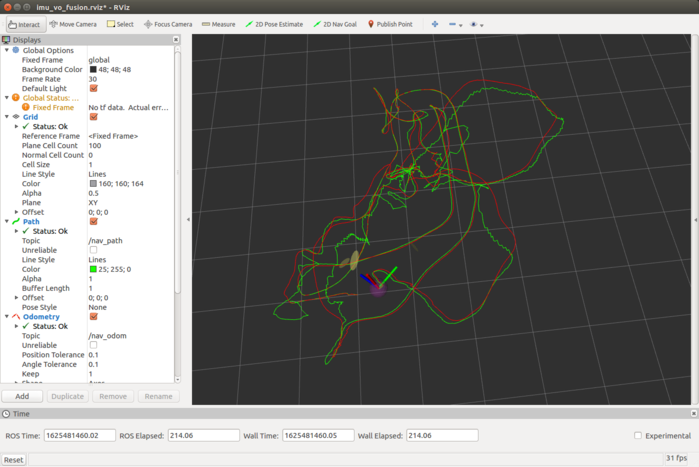
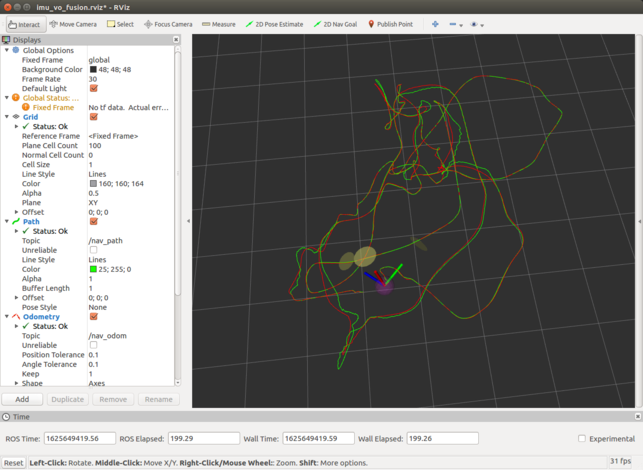
docs: update README.md

diff --git a/src/imu_vo_fusion_node.cpp b/src/imu_vo_fusion_node.cpp
@@ -36,7 +36,7 @@ class FusionNode {
 
         const double sigma_pv = 0.0005;
         const double sigma_rp  = 0.01 * kDegreeToRadian;
-        const double sigma_yaw = 500 * kDegreeToRadian;
+        const double sigma_yaw = 5 * kDegreeToRadian;
         kf_ptr_->set_cov(sigma_pv, sigma_pv, sigma_rp, sigma_yaw, acc_w, gyr_w);
 
         imu_sub_ = nh.subscribe(topic_imu, 10, &FusionNode::imu_callback, this);
@@ -119,7 +119,7 @@ void FusionNode::imu_callback(const sensor_msgs::ImuConstPtr &imu_msg) {
 Eigen::Matrix<double, 6, 15> FusionNode::measurementH(const Eigen::Quaterniond &vo_q, const Eigen::Isometry3d &T) {
     Eigen::Matrix<double, 6, 15> H;
     H.setZero();
-    
+
     const Eigen::Matrix3d &R00 = Tvw.linear();
     H.block<3, 3>(0, 0) = -R00;
     H.block<3, 3>(0, 6) =  R00 * T.linear() * skew_matrix(Tcb.inverse().translation());
@@ -157,7 +157,7 @@ void FusionNode::vo_callback(const nav_msgs::OdometryConstPtr &vo_msg) {
         }
 
         last_imu_ptr_ = imu_buf_.back();
-        if (std::abs(vo_msg->header.stamp.toSec() - last_imu_ptr_->timestamp) > 0.08) {
+        if (std::abs(vo_msg->header.stamp.toSec() - last_imu_ptr_->timestamp) > 0.05) {
             printf("[cggos %s] ERROR: timestamps are not synchronized!!!\n", __FUNCTION__);
             return;
         }

diff --git a/README.md b/README.md
@@ -60,6 +60,10 @@ test data: V1_01_easy.bag
 roslaunch imu_x_fusion imu_vo_fusion.launch
 
 # https://github.com/cggos/orbslam2_cg
+# pose cov:
+# sigma_pv: 0.005
+# sigma_rp: 0.5
+# sigma_yaw: 0.5
 roslaunch orbslam2_ros run_stereo_euroc.launch
 
 rosbag play V1_01_easy.bag
